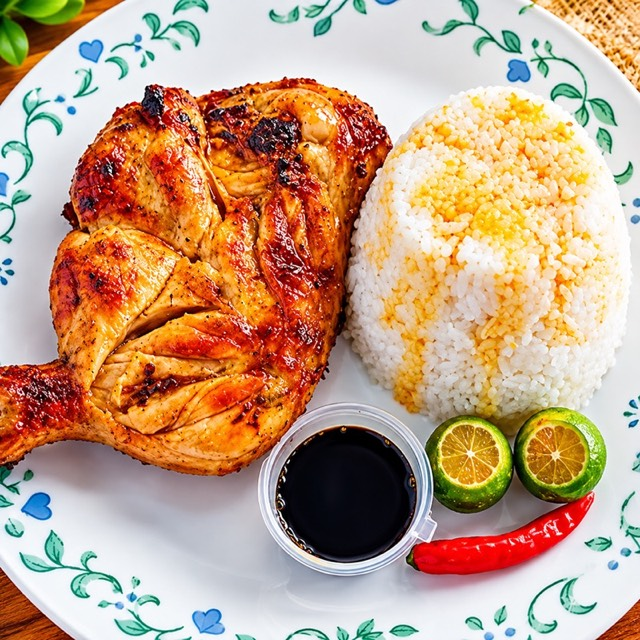
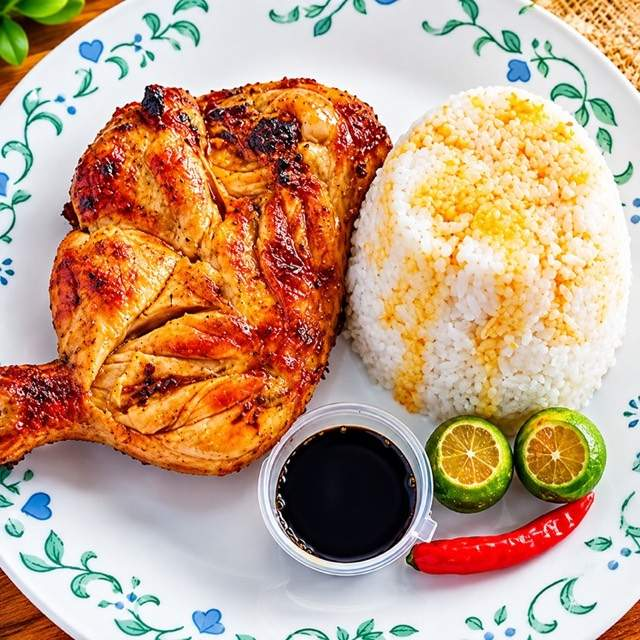
Compress menu photos (4.2 MB -> 2.0 MB)
Re-encode the 30 menu JPGs at quality 65 (progressive, optimized),
same dimensions and filenames. Bump IMG_VERSION so browsers refetch.

diff --git a/index.html b/index.html
@@ -804,7 +804,7 @@
   ];
 
   // Bump this when menu photos change so browsers fetch the new files
-  const IMG_VERSION = "2026-10-17";
+  const IMG_VERSION = "2026-10-22";
 
   const formatPrice = n => "₱" + n.toFixed(2);
 
